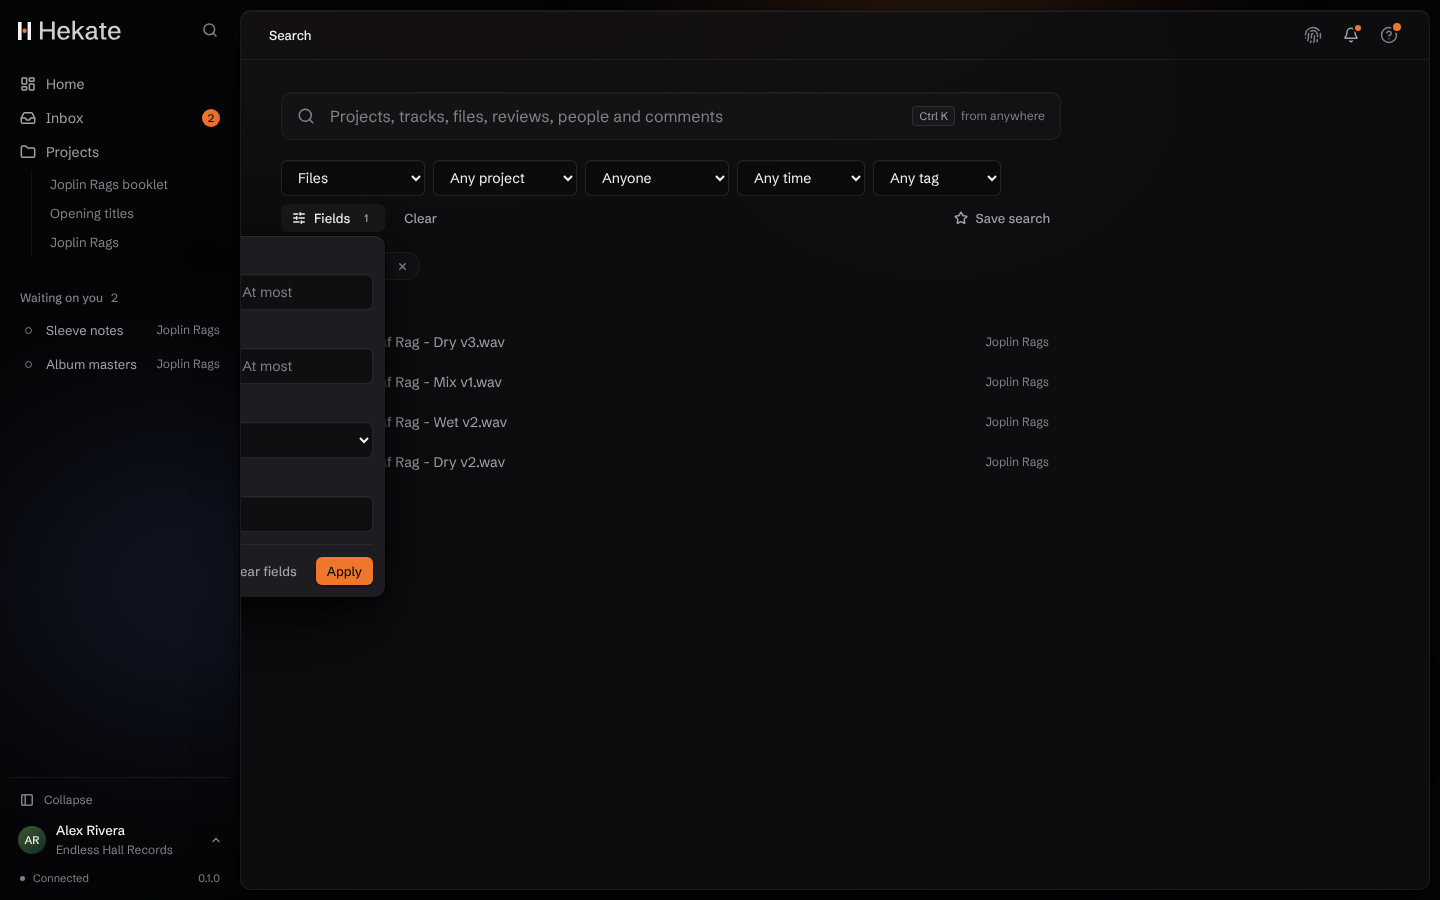
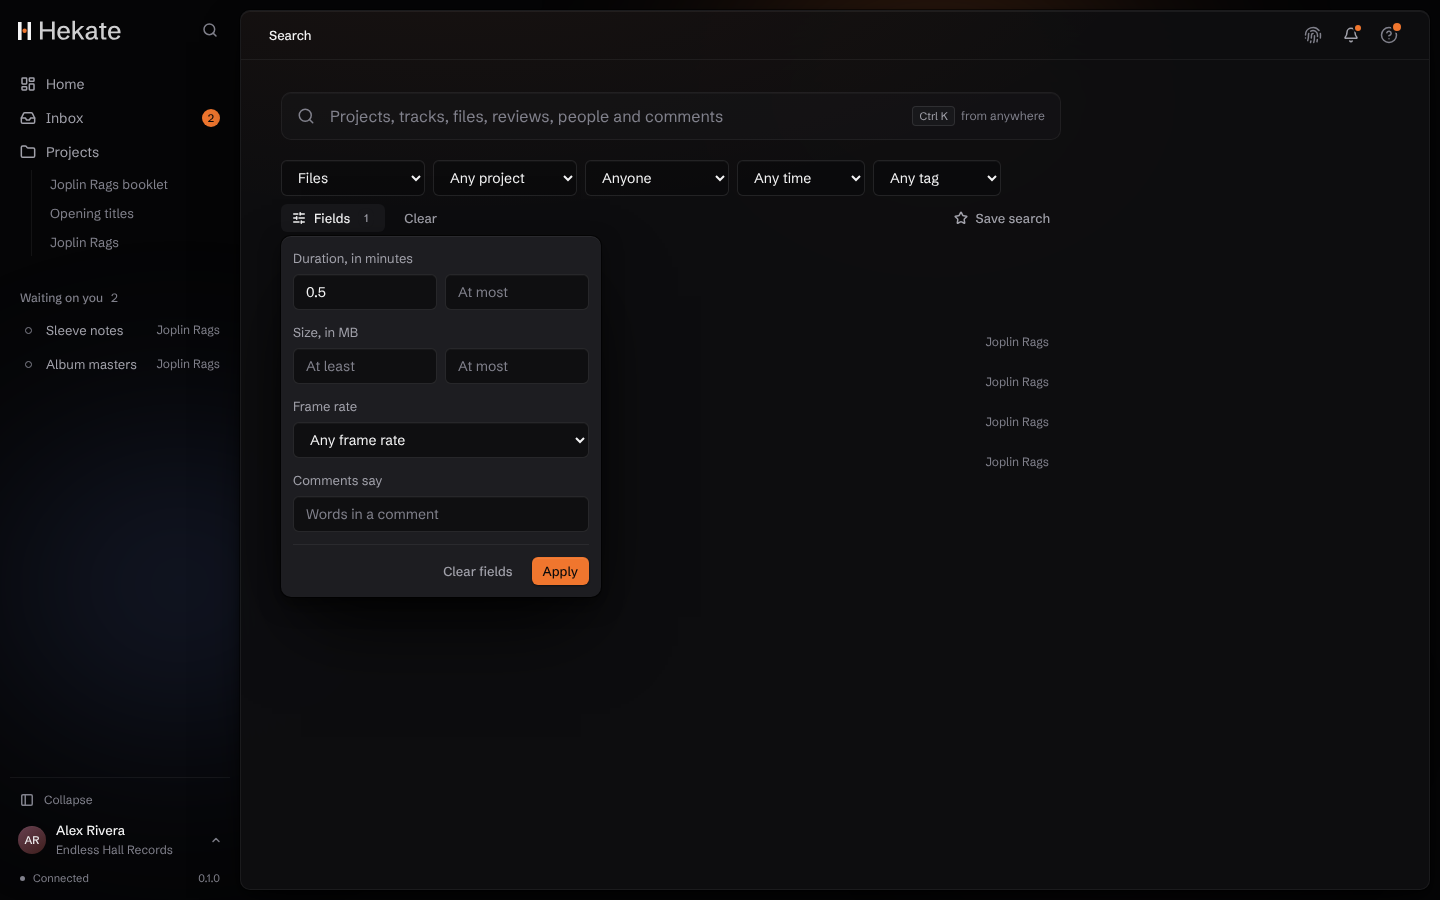
fix: refuse a wave chunk that runs past its file, and keep search's fields in view
A bext chunk claiming more bytes than the file holds was read at its
claimed length; any chunk but the audio that runs past the end now makes
the file one Hekate does not rewrite, and bext and ds64 bodies are bounded
as iXML and INFO were. The search fields popover opens to the right of
its trigger at every width, inside the content pane.

Claude-Session: https://claude.ai/code/session_01NMxDMo5UFTp2fWhjUcBt5W

diff --git a/apps/server/src/media/metadata-write.ts b/apps/server/src/media/metadata-write.ts
@@ -219,6 +219,9 @@ export async function correctedWave(
         if (body.length >= 16) large = Number(body.readBigUInt64LE(8));
       }
       if (id === "data" && length === 0xffffffff && large !== undefined) length = large;
+      // A chunk that says it runs past the end of the file is not one to trust: the audio's
+      // own length is checked below, and any other chunk's must fit in what is there.
+      if (id !== "data" && position + 8 + length > fileSize) return null;
       const list = id === "LIST" ? (await read(position + 8, 4)).toString("latin1") : undefined;
       chunks.push({ id, position, length, ...(list ? { list } : {}) });
       position += 8 + length + (length % 2);
@@ -262,11 +265,18 @@ export async function correctedWave(
         });
         if (chunk.length % 2) pieces.push(Buffer.alloc(1));
       } else if (chunk.id === "ds64") {
+        // ds64 is a few dozen bytes; one far larger is not a file to write again.
+        if (chunk.length > MAX_REWRITTEN) return null;
         ds64 = chunkBytes("ds64", await body());
         pieces.push(ds64);
       } else if (chunk.id === "bext" && wanted.bext && !done.bext) {
-        pieces.push(chunkBytes("bext", bextBody(await body(), corrections)));
         done.bext = true;
+        // One too large to take in hand is left as it was, as iXML and INFO are.
+        pieces.push(
+          chunk.length <= MAX_REWRITTEN
+            ? chunkBytes("bext", bextBody(await body(), corrections))
+            : asItIs(chunk),
+        );
       } else if (chunk.id === "iXML" && wanted.ixml && !done.ixml) {
         done.ixml = true;
         // One too large to take in hand, or with no end to add to, is left as it was.

diff --git a/apps/server/src/media/metadata-write.test.ts b/apps/server/src/media/metadata-write.test.ts
@@ -160,6 +160,21 @@ describe("corrected metadata as a recording leaves (decision 264)", () => {
     });
   });
 
+  it("refuses a chunk that says it runs past the end of the file, rather than reading it", async () => {
+    await withWorkspace(undefined, async (dir) => {
+      // Valid audio, then a bext chunk claiming 4 GB the file does not have.
+      const crafted = join(dir, "crafted.wav");
+      const header = Buffer.alloc(8);
+      header.write("bext", 0, 4, "latin1");
+      header.writeUInt32LE(0xffffffff, 4);
+      await writeFile(
+        crafted,
+        Buffer.concat([waveBytes({ seconds: 0.1 }), header, Buffer.alloc(16)]),
+      );
+      expect(await correctedWave(crafted, fixes)).toBeNull();
+    });
+  });
+
   it("keeps an RF64 file's sizes right in its ds64 chunk", async () => {
     await withWorkspace(undefined, async (dir) => {
       const input = join(dir, "rf64.wav");

diff --git a/apps/web/src/routes/search.tsx b/apps/web/src/routes/search.tsx
@@ -338,7 +338,7 @@ function FieldsMenu({
           role="dialog"
           aria-label="Search by field"
           data-e2e-overlap
-          className="rise-in absolute left-0 z-30 mt-1 w-80 max-w-[calc(100vw-32px)] rounded-panel-lg bg-overlay p-3 shadow-4 @3xl/app:right-0 @3xl/app:left-auto"
+          className="rise-in absolute left-0 z-30 mt-1 w-80 max-w-[calc(100vw-32px)] rounded-panel-lg bg-overlay p-3 shadow-4"
         >
           <form onSubmit={apply} className="flex flex-col gap-3">
             <fieldset className="m-0 grid grid-cols-2 gap-2 border-0 p-0">
